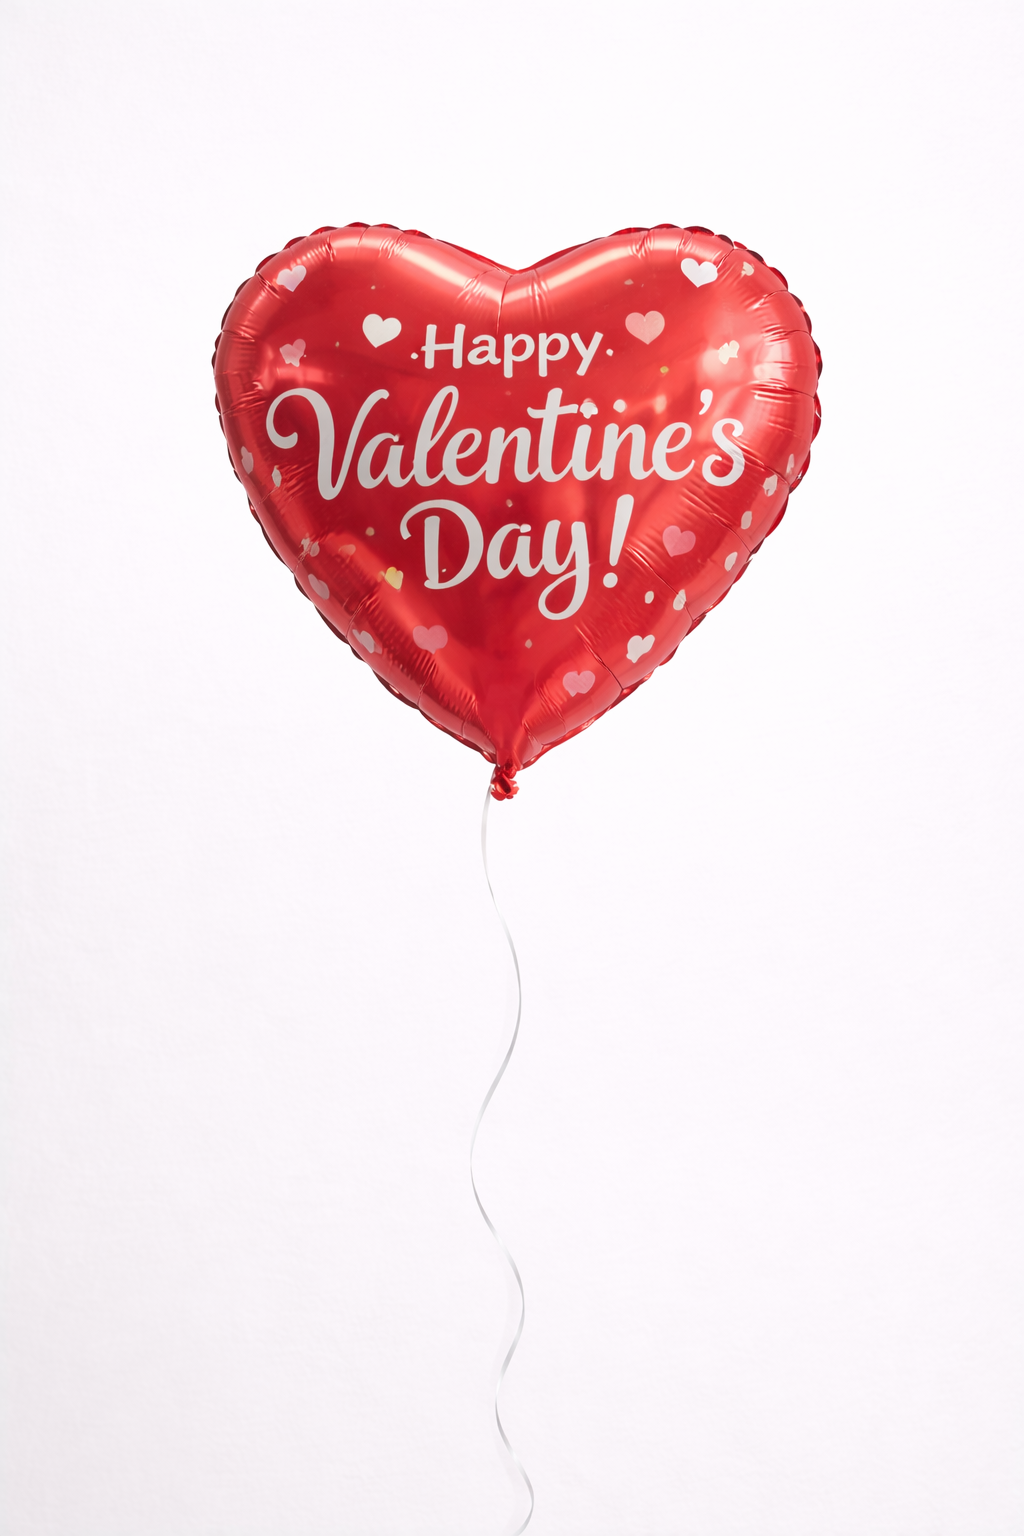
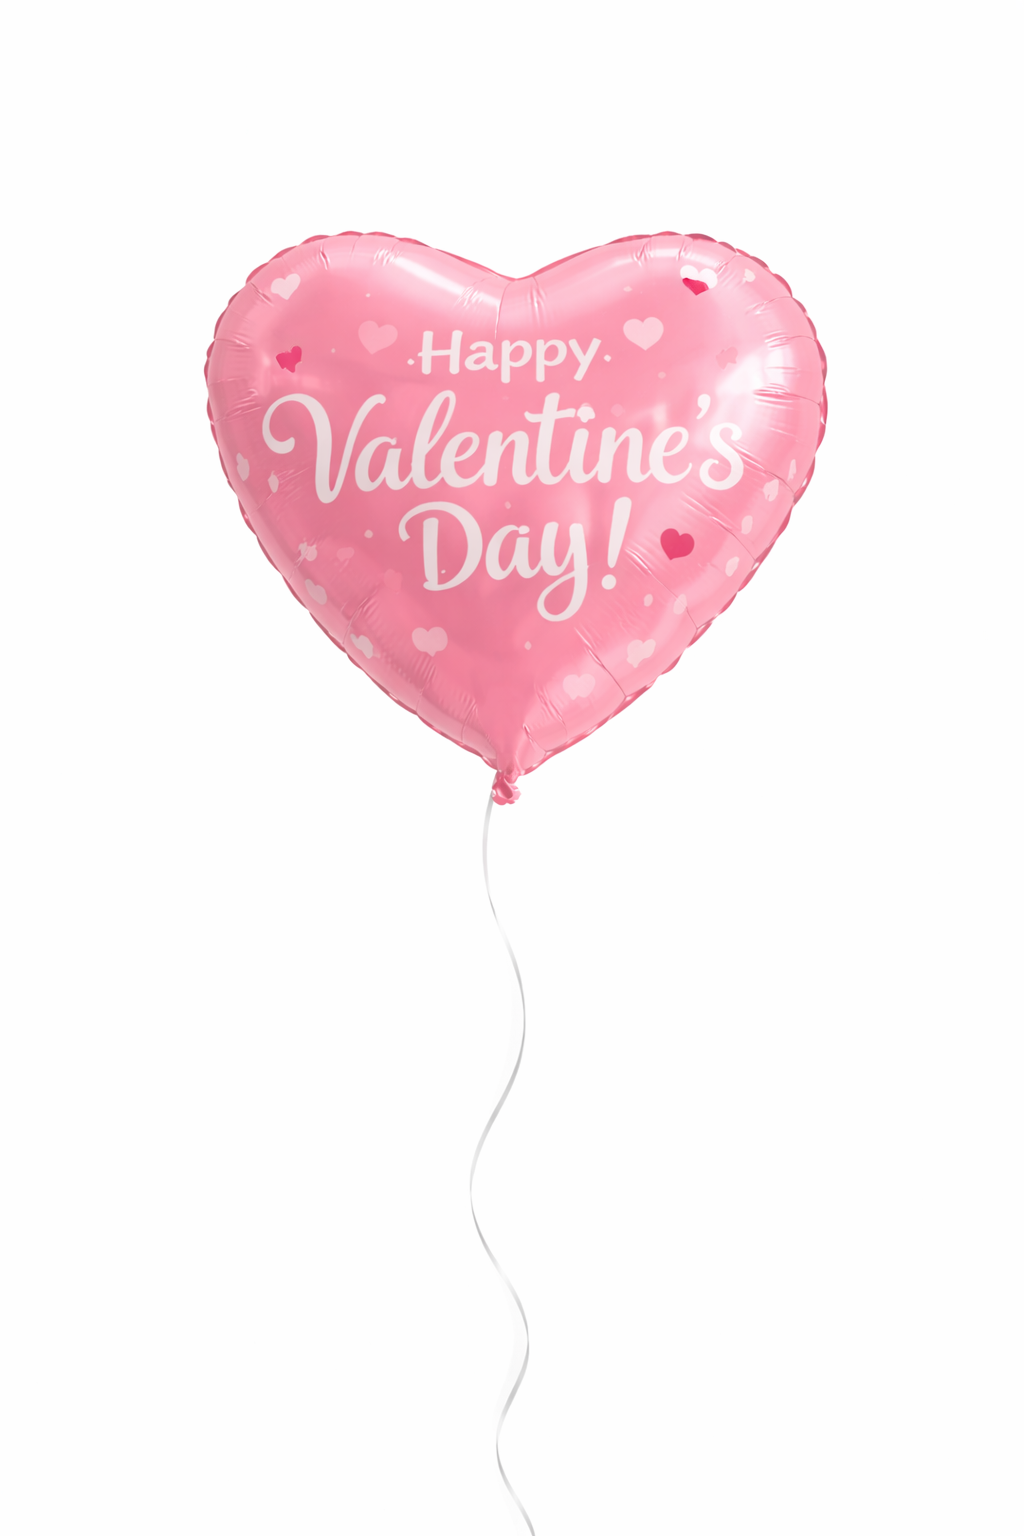
vamso a cambiar el texto de:
*El diseño y los colores pueden variar seg

diff --git a/src/lib/products.ts b/src/lib/products.ts
@@ -97,16 +97,16 @@ export const products: Product[] = [
     code: 'FE06',
     category: 'flores',
   },
-  {
-    name: 'Sonrisa Floral',
-    price: 920,
-    description:
-      'Un arreglo floral colorido y llamativo con rosas rojas, gerberas rosas, un girasol, lirios y alstroemerias, acompañado de follaje verde que le da volumen y frescura.',
-    image: findImage('arreglo-espiral-grande-colores'),
-    imageAlt: 'Arreglo espiral, floral de colores',
-    code: 'FE07',
-    category: 'flores',
-  },
+  // {
+  //   name: 'Sonrisa Floral',
+  //   price: 920,
+  //   description:
+  //     'Un arreglo floral colorido y llamativo con rosas rojas, gerberas rosas, un girasol, lirios y alstroemerias, acompañado de follaje verde que le da volumen y frescura.',
+  //   image: findImage('arreglo-espiral-grande-colores'),
+  //   imageAlt: 'Arreglo espiral, floral de colores',
+  //   code: 'FE07',
+  //   category: 'flores',
+  // },
   {
     name: 'Arreglo Corazon Chico',
     price: 650,
@@ -148,16 +148,16 @@ export const products: Product[] = [
     category: 'flores',
   },
 
-  // {
-  //   name: 'Arreglo Flores Surtidas v2',
-  //   price: 650,
-  //   description:
-  //     'Un arreglo floral elegante y vertical con rosas rojas, gerberas, lirios blancos y follaje tropical, estructurado con altura y contraste de colores para un efecto sofisticado.',
-  //   image: findImage('arreglo-surtido-2'),
-  //   imageAlt: 'Arreglo Surtido',
-  //   code: 'FE12',
-  //   category: 'flores',
-  // },
+  {
+    name: 'Arreglo Flores Surtidas Gerberas',
+    price: 650,
+    description:
+      'Un arreglo floral elegante y vertical con rosas rojas, gerberas, lirios blancos y follaje tropical, estructurado con altura y contraste de colores para un efecto sofisticado.',
+    image: findImage('arreglo-surtido-9'),
+    imageAlt: 'Arreglo Surtido Gerberas 9',
+    code: 'FE12',
+    category: 'flores',
+  },
   {
     name: 'Arreglo de Rosas en Capaz',
     price: 650,
@@ -168,16 +168,16 @@ export const products: Product[] = [
     code: 'FE13',
     category: 'flores',
   },
-  {
-    name: 'Arreglo Surtido Colores',
-    price: 650,
-    description:
-      'Un arreglo floral elegante y vertical con rosas rojas, gerberas, lirios blancos y follaje tropical, estructurado con altura y contraste de colores para un efecto sofisticado.',
-    image: findImage('arreglo-surtido-colores'),
-    imageAlt: 'Arreglo Surtido Colores',
-    code: 'FE14',
-    category: 'flores',
-  },
+  // {
+  //   name: 'Arreglo Surtido Colores',
+  //   price: 650,
+  //   description:
+  //     'Un arreglo floral elegante y vertical con rosas rojas, gerberas, lirios blancos y follaje tropical, estructurado con altura y contraste de colores para un efecto sofisticado.',
+  //   image: findImage('arreglo-surtido-colores'),
+  //   imageAlt: 'Arreglo Surtido Colores',
+  //   code: 'FE14',
+  //   category: 'flores',
+  // },
   {
     name: 'Ramo Surtido de Rosas',
     price: 650,
@@ -299,7 +299,7 @@ export const products: Product[] = [
   },
   {
     name: 'Ferrero Rocher 24 pzas',
-    price: 450,
+    price: 340,
     description:
       'Estuche con 24 chocolates Ferrero Rocher, ideal para un regalo elegante. 🍫🌟',
     image: findImage('ferrero-24-piezas'),
@@ -309,7 +309,7 @@ export const products: Product[] = [
   },
   {
     name: 'Ferrero Rocher 16 pzas',
-    price: 450,
+    price: 220,
     description:
       'Caja con 16 chocolates premium, para sorprender en ocasiones especiales. 🍫💛',
     image: findImage('ferrero-16-pierzas'),
@@ -319,7 +319,7 @@ export const products: Product[] = [
   },
   {
     name: 'Ferrero Rocher 8 pzas',
-    price: 450,
+    price: 110,
     description:
       'Caja con 8 chocolates Ferrero Rocher, ideal para un detalle dulce. 🍫✨',
     image: findImage('ferrero-8-piezas'),
@@ -329,7 +329,7 @@ export const products: Product[] = [
   },
   {
     name: 'Chocolate Ferrero caja corazón',
-    price: 450,
+    price: 130,
     description:
       'Caja de corazón con 8 chocolates Ferrero Rocher, ideal para un detalle dulce. 🍫✨',
     image: findImage('ferrero-8-piezas-corazon'),
@@ -339,7 +339,7 @@ export const products: Product[] = [
   },
   {
     name: 'Chocolate Ferrero caja corazón chico',
-    price: 1150,
+    price: 35,
     description:
       'Caja de corazón con 2 chocolates Ferrero Rocher, ideal para un detalle dulce. 🍫✨',
     image: findImage('ferrero-corazon-2pz'),
@@ -348,6 +348,19 @@ export const products: Product[] = [
     // badgeColor: 'bg-green-500',
     // badgeTextColor: 'text-white',
     code: 'CO05',
+    category: 'complementos',
+  },
+  {
+    name: 'Chocolate Ferrero 5 pz',
+    price: 70,
+    description:
+      'Caja de corazón con 5 chocolates Ferrero Rocher, ideal para un detalle dulce. 🍫✨',
+    image: findImage('ferrero-corazon-5pz'),
+    imageAlt: 'Chocolate Ferrero 5 pz',
+    // badge: 'NUEVO',
+    // badgeColor: 'bg-green-500',
+    // badgeTextColor: 'text-white',
+    code: 'CO06',
     category: 'complementos',
   },
   {
@@ -360,7 +373,7 @@ export const products: Product[] = [
     // badge: 'NUEVO',
     // badgeColor: 'bg-green-500',
     // badgeTextColor: 'text-white',
-    code: 'CO06',
+    code: 'CO07',
     category: 'complementos',
   },
   {
@@ -373,7 +386,7 @@ export const products: Product[] = [
     // badge: 'NUEVO',
     // badgeColor: 'bg-green-500',
     // badgeTextColor: 'text-white',
-    code: 'CO07',
+    code: 'CO08',
     category: 'complementos',
   },
 ];

diff --git a/src/components/ProductDetailModal.tsx b/src/components/ProductDetailModal.tsx
@@ -92,7 +92,7 @@ export function ProductDetailModal({
                 Pedir por WhatsApp
               </a>
               <p className="text-xs text-muted-foreground mt-2 text-center">
-                *El diseño y los colores pueden variar según disponibilidad.
+                El diseño, colores y presentación de los arreglos florales, globos, peluches y demás complementos pueden variar según disponibilidad, conservando siempre la calidad y el estilo del producto mostrado.
               </p>
             </div>
           </div>

diff --git a/src/components/ProductCard.tsx b/src/components/ProductCard.tsx
@@ -69,7 +69,7 @@ export function ProductCard({ product, onOpenModal }: ProductCardProps) {
           </a>
         </div>
         <p className="text-[10px] text-muted-foreground mt-2 text-center">
-          *El diseño y los colores pueden variar según disponibilidad.
+          El diseño, colores y presentación de los arreglos florales, globos, peluches y demás complementos pueden variar según disponibilidad, conservando siempre la calidad y el estilo del producto mostrado.
         </p>
       </div>
     </div>
